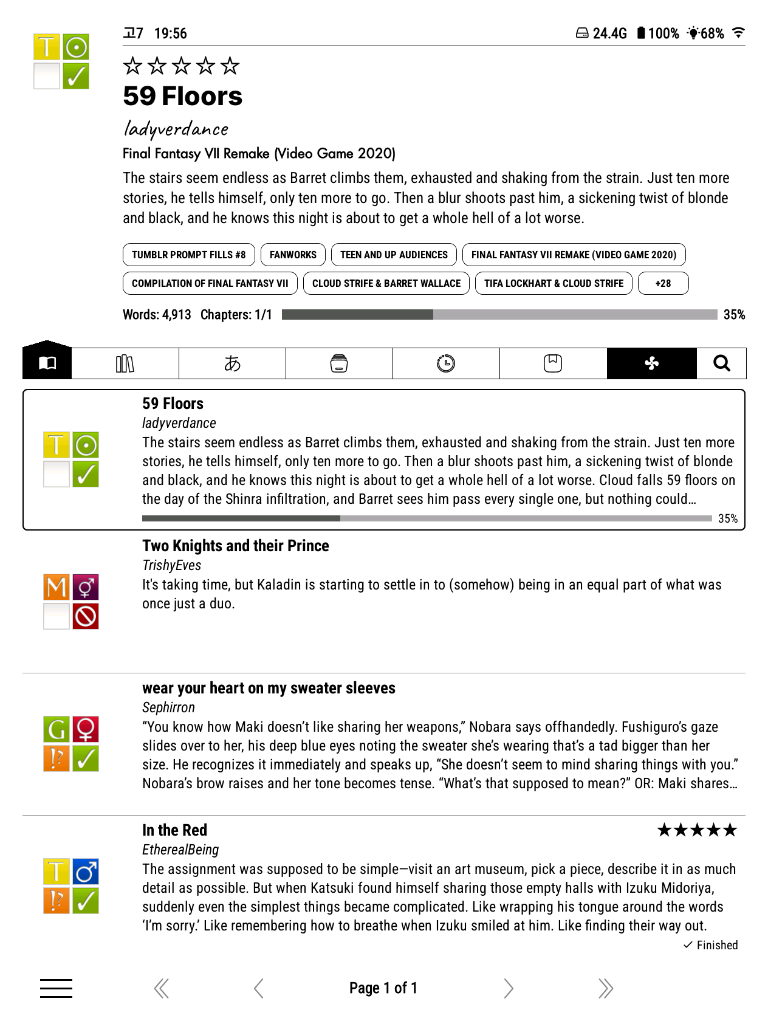
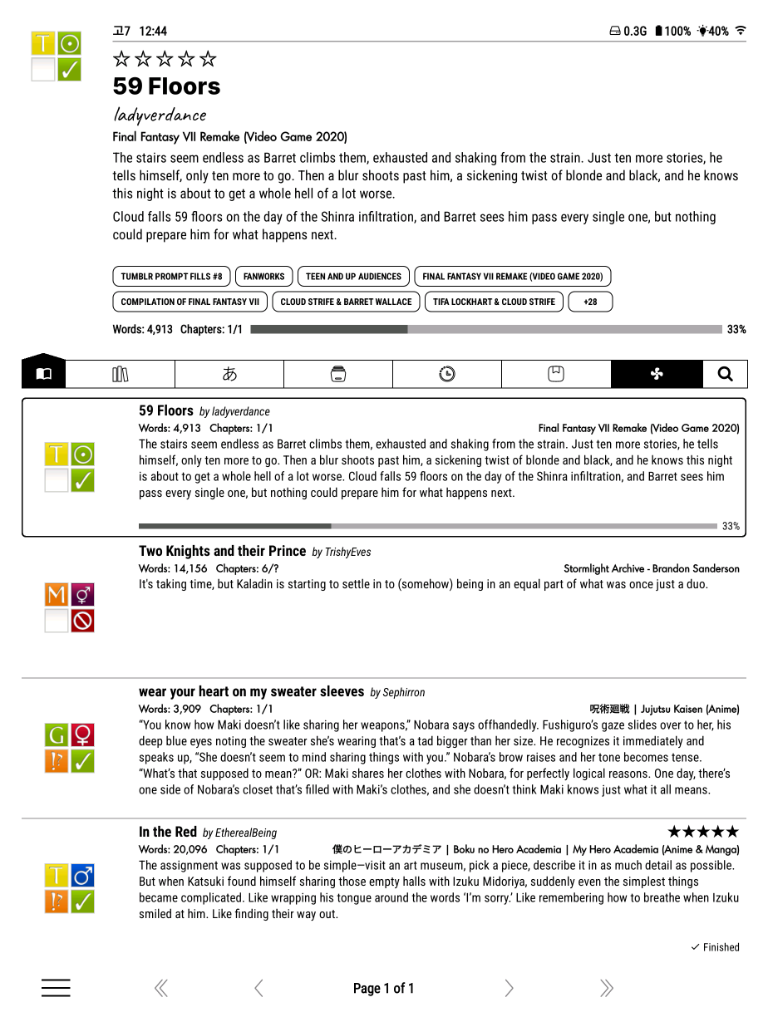
Fix: Changed source for fandom scan from tags to epub pages.
Added new tokens:
- `%ao3_fandom`: Only the first fandom, as it did before 1.0.2
- `%ao3_multifandom`: All fandoms, separated by commas

diff --git a/README.md b/README.md
@@ -100,10 +100,11 @@ picker:
 |---|---|
 | `%ao3_words` | Word count |
 | `%ao3_chapters` | Chapter count, such as `12/24` or `12/?` |
-| `%ao3_fandom` | Fandom |
+| `%ao3_fandom` | First fandom only, useful for crossovers with many fandoms |
+| `%ao3_multifandom` | All fandoms, separated by commas |
 
 <p align="center">
-  <a href="docs/images/bookshelf-token-picker.png"><img src="docs/images/bookshelf-token-picker.png" alt="Bookshelf token picker with the Ao3 chapter count, fandom and word count tokens" width="480"></a>
+  <a href="docs/images/bookshelf-token-picker.png"><img src="docs/images/bookshelf-token-picker.png" alt="Bookshelf token picker with the Ao3 chapter count, fandom, multifandom and word count tokens" width="480"></a>
 </p>
 
 Examples:
@@ -112,6 +113,7 @@ Examples:
 [if:ao3_words]Words: %ao3_words[/if]
 [if:ao3_chapters]Chapters: %ao3_chapters[/if]
 %ao3_fandom
+%ao3_multifandom
 ```
 
 ## Settings for Koreader list
@@ -139,13 +141,13 @@ The default maximum is **15 tags**.
 
 Ao3 Plus reads information directly from your EPUBs. It checks up to the
 first four HTML pages inside each EPUB for the Ao3 work information, including
-the word count, chapter count and completion status.
+the fandom, word count, chapter count and completion status.
 
 The scanner does not change your EPUBs and does not send anything online. It
 saves the results in small cache files inside KOReader's `settings` folder:
 
 - `bookshelf_ao3_status_v2.lua` stores completion status
-- `ao3_plus_metadata_v1.lua` stores word and chapter counts
+- `ao3_plus_metadata_v1.lua` stores fandoms and word and chapter counts
 
 This means Ao3 Plus does not need to reopen the same EPUB every time the list
 is displayed.
